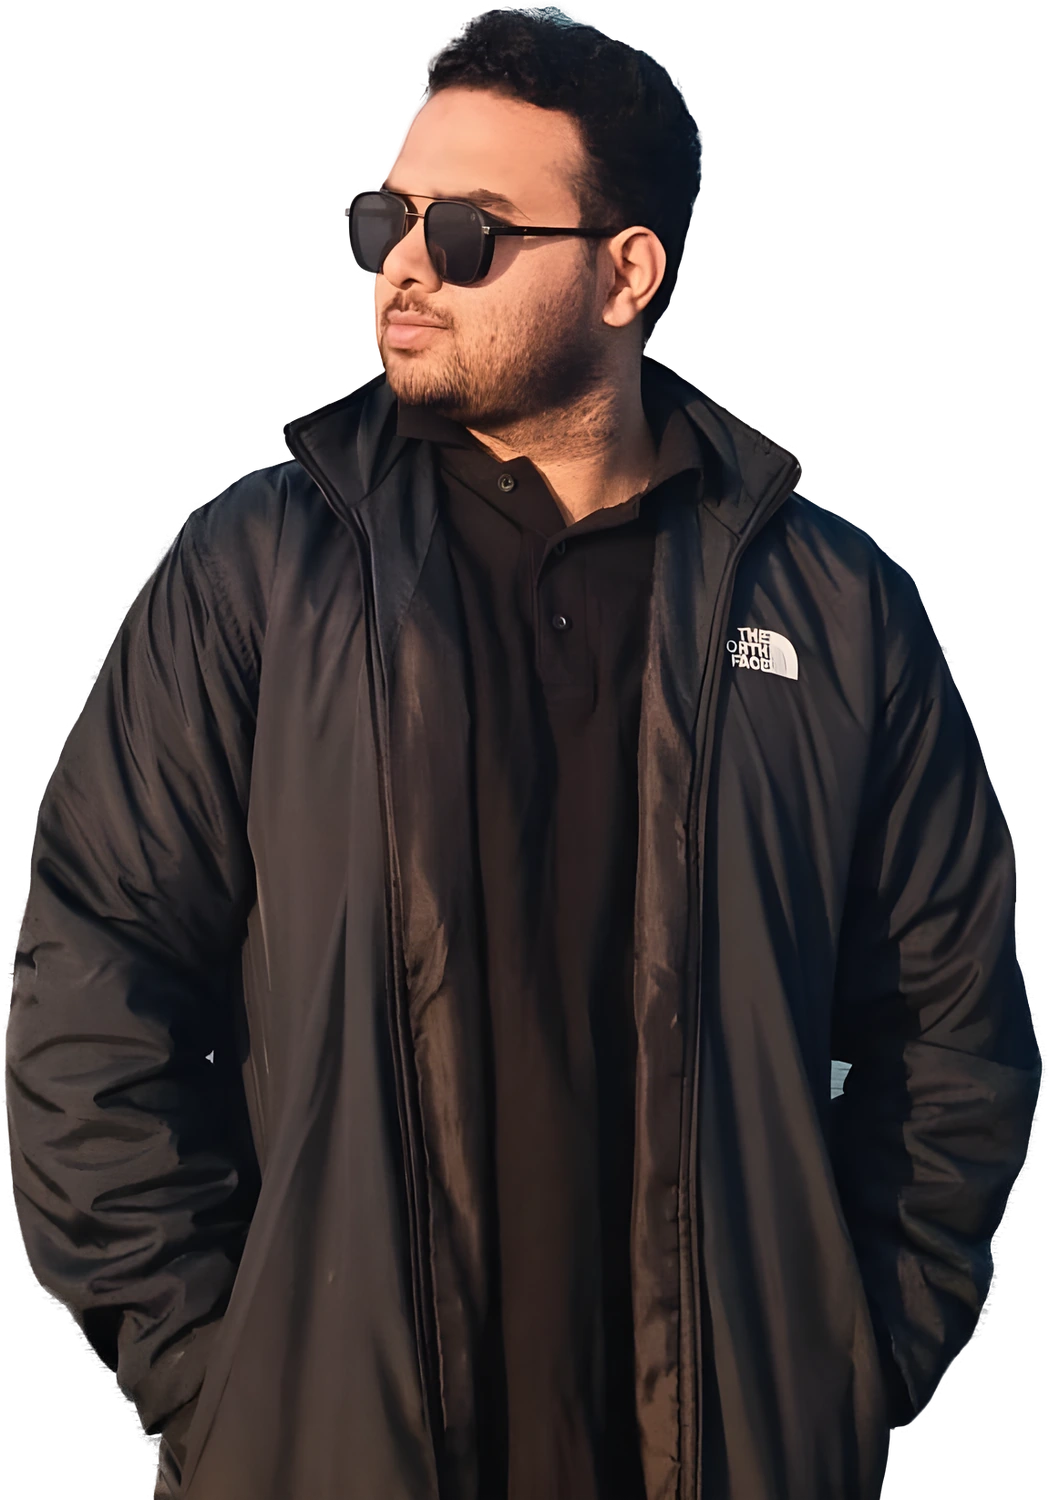
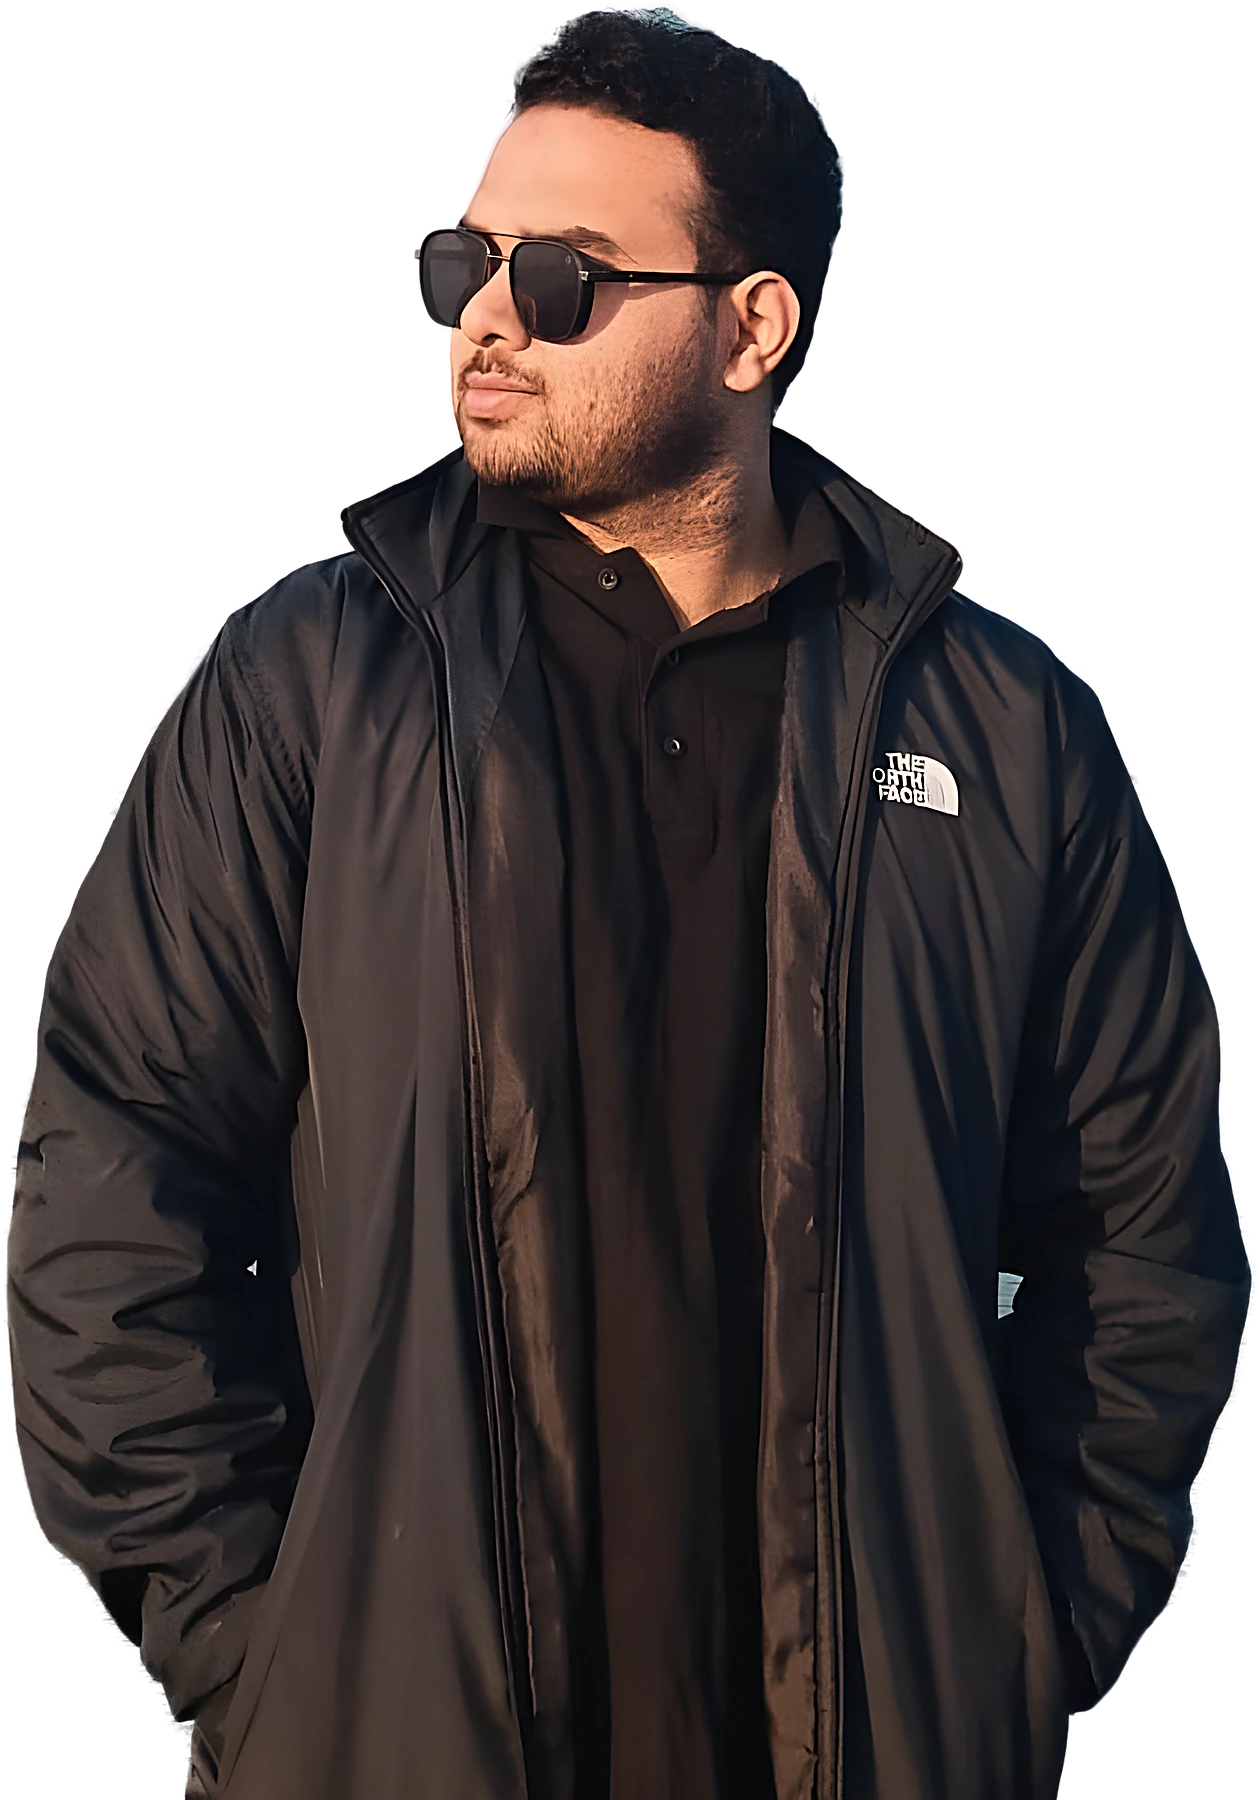
Restore original hero photo style, sharper HD cutout, deeper YEASIN colour
- Back to the full-colour photo with a short soft fade at the bottom (sides softened)
- Cutout rebuilt from the Real-ESRGAN x4 image at 1800 px with detail sharpening
- YEASIN in deep coffee-brown (#5E4630) for stronger focus; FIYAZ stays black

diff --git a/my-portfolio/css/style.css b/my-portfolio/css/style.css
@@ -126,7 +126,7 @@ body.cursor-hover .cursor-ring{width:64px; height:64px; opacity:.35; background:
 .hero-name{font-family:var(--font-display); font-weight:900; font-stretch:115%; text-transform:uppercase; line-height:.84; letter-spacing:-.035em; font-size:clamp(68px,9.4vw,158px); margin:0}
 .hero-name .hero-line{display:block; white-space:nowrap}
 .hero-name .hero-line span{display:inline-block; opacity:0; transform:translateY(70px) rotate(3deg); animation:letterIn .9s var(--ease) forwards}
-.hero-name .n1 span{color:#8C7354}
+.hero-name .n1 span{color:#5E4630}
 .hero-name .n2 span{color:var(--ink); -webkit-text-stroke:0}
 .hero-name .n2 span.dot{color:var(--orange); -webkit-text-stroke:0}
 @keyframes letterIn{to{opacity:1; transform:none}}
@@ -148,12 +148,9 @@ body.cursor-hover .cursor-ring{width:64px; height:64px; opacity:.35; background:
 .hv-ring{position:absolute; left:50%; bottom:calc(6% - 22px); width:calc(86% + 44px); aspect-ratio:1; transform:translateX(-50%); border-radius:50%; border:2px dashed rgba(14,14,14,.35); animation:spinC 40s linear infinite}
 @keyframes spinC{to{transform:translateX(-50%) rotate(360deg)}}
 .hv-dots{position:absolute; right:-10px; top:6%; width:120px; height:120px; opacity:.55; background-image:radial-gradient(var(--ink) 1.6px, transparent 1.6px); background-size:14px 14px}
-.hv-person{position:absolute; left:50%; bottom:0; height:100%; transform:translateX(-50%); z-index:2; filter:drop-shadow(0 24px 30px rgba(14,14,14,.18)); opacity:0; animation:personIn 1.2s var(--ease) .3s forwards;
-  -webkit-mask-image:linear-gradient(180deg,#000 0%,#000 52%,rgba(0,0,0,.55) 72%,rgba(0,0,0,.15) 88%,transparent 100%); mask-image:linear-gradient(180deg,#000 0%,#000 52%,rgba(0,0,0,.55) 72%,rgba(0,0,0,.15) 88%,transparent 100%)}
+.hv-person{position:absolute; left:50%; bottom:0; height:100%; transform:translateX(-50%); z-index:2; filter:drop-shadow(0 24px 30px rgba(14,14,14,.28)); opacity:0; animation:personIn 1.2s var(--ease) .3s forwards}
 @keyframes personIn{from{opacity:0; transform:translateX(-50%) translateY(40px)}to{opacity:1; transform:translateX(-50%)}}
-.hv-fade{display:none}
-/* the circle and ring melt into the background together with the photo */
-.hv-circle,.hv-ring{-webkit-mask-image:linear-gradient(180deg,#000 0%,#000 50%,rgba(0,0,0,.4) 72%,transparent 92%); mask-image:linear-gradient(180deg,#000 0%,#000 50%,rgba(0,0,0,.4) 72%,transparent 92%)}
+.hv-fade{position:absolute; left:-10%; right:-10%; bottom:0; height:16%; z-index:3; pointer-events:none; background:linear-gradient(180deg, rgba(243,238,230,0), var(--cream) 85%); -webkit-mask-image:linear-gradient(90deg,transparent,#000 12%,#000 88%,transparent); mask-image:linear-gradient(90deg,transparent,#000 12%,#000 88%,transparent)}
 .hv-chip{position:absolute; z-index:4; display:flex; align-items:center; gap:10px; background:#fff; border:1px solid var(--line); border-radius:16px; padding:10px 14px; box-shadow:0 16px 40px rgba(14,14,14,.12); font-size:.85rem; white-space:nowrap; animation:bob 5s ease-in-out infinite}
 .hv-chip i{width:34px; height:34px; border-radius:10px; display:grid; place-items:center; background:var(--ink); color:#fff; font-size:.9rem}
 .hv-chip b{display:block; font-family:var(--font-display); font-size:.95rem; line-height:1.1}
